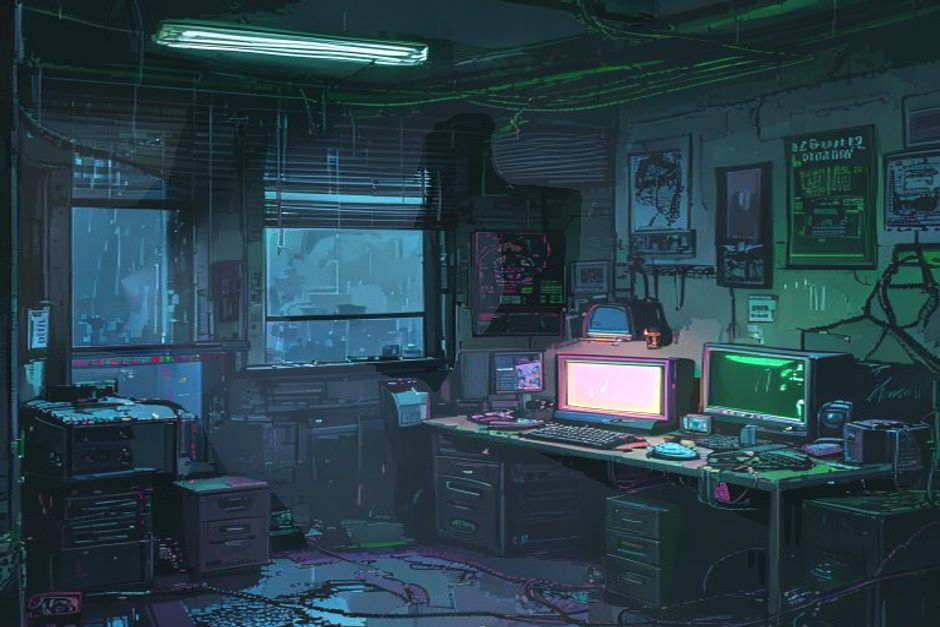
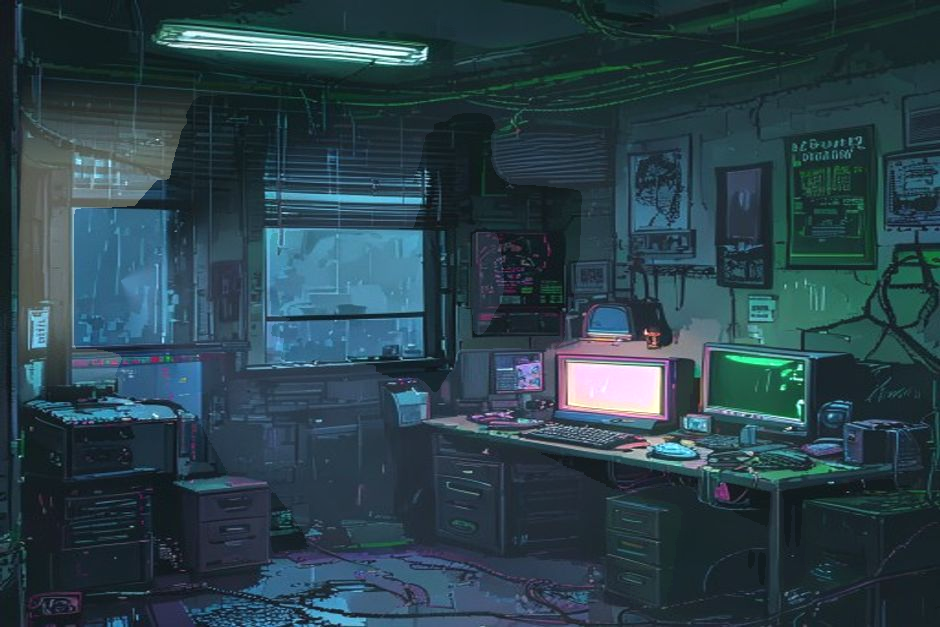
feat: more prominent car headlights with stronger contrast
- Car1 intensity: 0.08 → 0.35, Car2: 0.04 → 0.2
- Wider mask feather (80/100px) for softer light spread
- Phase function: darker when no car, brighter when car passes
- Loop closure: 2.79, avg diff: 2.53

Changed region(s): [[0.0, 0.1818, 0.216, 0.5758]]

diff --git a/gen_depth_lighting.py b/gen_depth_lighting.py
@@ -51,20 +51,23 @@ def _pulse_medium(frame_idx, num_frames):
     return max(0.0, min(1.0, 0.5 + 0.5 * math.sin(t * 2.0)))
 
 def _irregular_car(frame_idx, num_frames):
-    """车灯：不规则扫过 + soft threshold 渐入渐出。"""
+    """车灯：不规则扫过 + soft threshold，明暗对比强烈。"""
     t = 2 * math.pi * frame_idx / num_frames
     v = (0.5 + 0.5 * math.sin(t * 1.0 + 0.0)
          + 0.3 * math.sin(t * 3.0 + 1.2)
          + 0.2 * math.sin(t * 5.0 + 2.8))
     v = v / 1.0
     v = max(0.0, min(1.0, v))
-    if v < 0.35:
-        v *= 0.2
-    elif v < 0.55:
-        alpha = (v - 0.35) / 0.20
-        alpha = alpha * alpha * (3 - 2 * alpha)
-        v = 0.35 * 0.2 * (1 - alpha) + v * alpha
-    return v
+    # 提高对比度：暗区更暗，亮区更亮
+    if v < 0.4:
+        v *= 0.1   # 没车时几乎全暗
+    elif v < 0.6:
+        alpha = (v - 0.4) / 0.2
+        alpha = alpha * alpha * (3 - 2 * alpha)  # smoothstep
+        v = 0.4 * 0.1 * (1 - alpha) + v * alpha
+    else:
+        v = 0.6 + (v - 0.6) * 1.5  # 拉高亮区
+    return max(0.0, min(1.0, v))
 
 def _irregular_screen(frame_idx, num_frames):
     """屏幕/LED：不规则亮度闪烁。"""
@@ -122,15 +125,15 @@ SCENE_LIGHTS = {
              "color": [0.55, 0.65, 0.85], "intensity": (0.08, 0.22),
              "radius": 600, "phase": _moonlight_clouds,
              "mask": {"type": "cone", "dir": (1, 0.3), "angle_deg": 120, "feather": 30}},
-            # 车灯：只照亮窗户区域，几乎不进室内
+            # 车灯：照亮窗户区域，微弱进室内
             {"name": "car1", "pos": (60, 220),
-             "color": [1.0, 0.92, 0.7], "intensity": (0.0, 0.08),
+             "color": [1.0, 0.92, 0.7], "intensity": (0.0, 0.35),
              "radius": 500, "phase": _irregular_car,
-             "mask": {"type": "rect", "region": (0, 80, 300, 400), "feather": 60}},
+             "mask": {"type": "rect", "region": (0, 80, 300, 400), "feather": 80}},
             {"name": "car2", "pos": (200, 180),
-             "color": [1.0, 0.85, 0.6], "intensity": (0.0, 0.04),
+             "color": [1.0, 0.85, 0.6], "intensity": (0.0, 0.2),
              "radius": 450, "phase": _phase_shift(_irregular_car, 3),
-             "mask": {"type": "rect", "region": (0, 60, 320, 420), "feather": 80}},
+             "mask": {"type": "rect", "region": (0, 60, 320, 420), "feather": 100}},
             # 屏幕光：照亮桌面和面对屏幕的墙壁，不照天花板
             {"name": "screen", "pos": (770, 320),
              "color": [0.15, 0.7, 0.25], "intensity": (0.03, 0.18),
